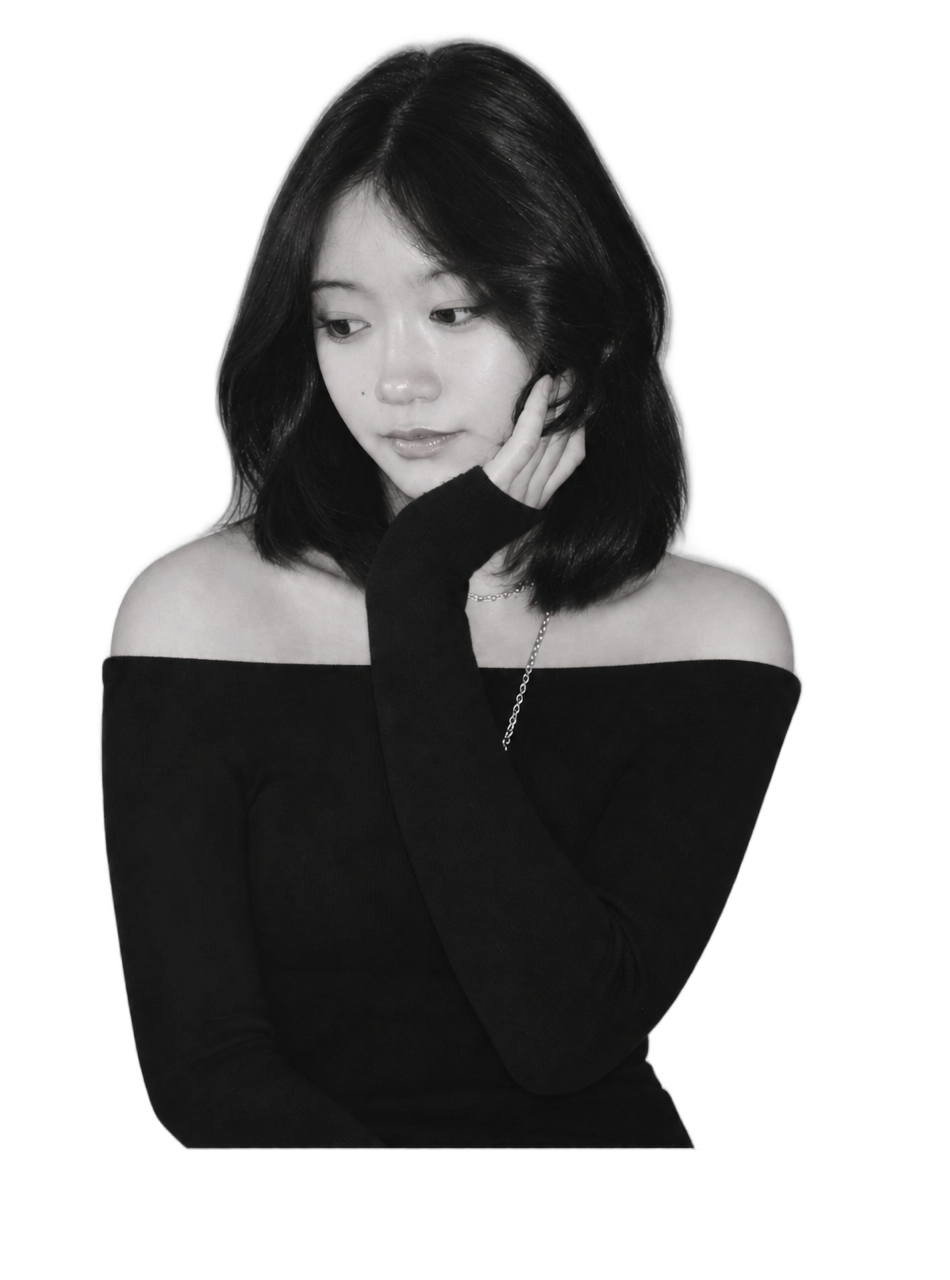
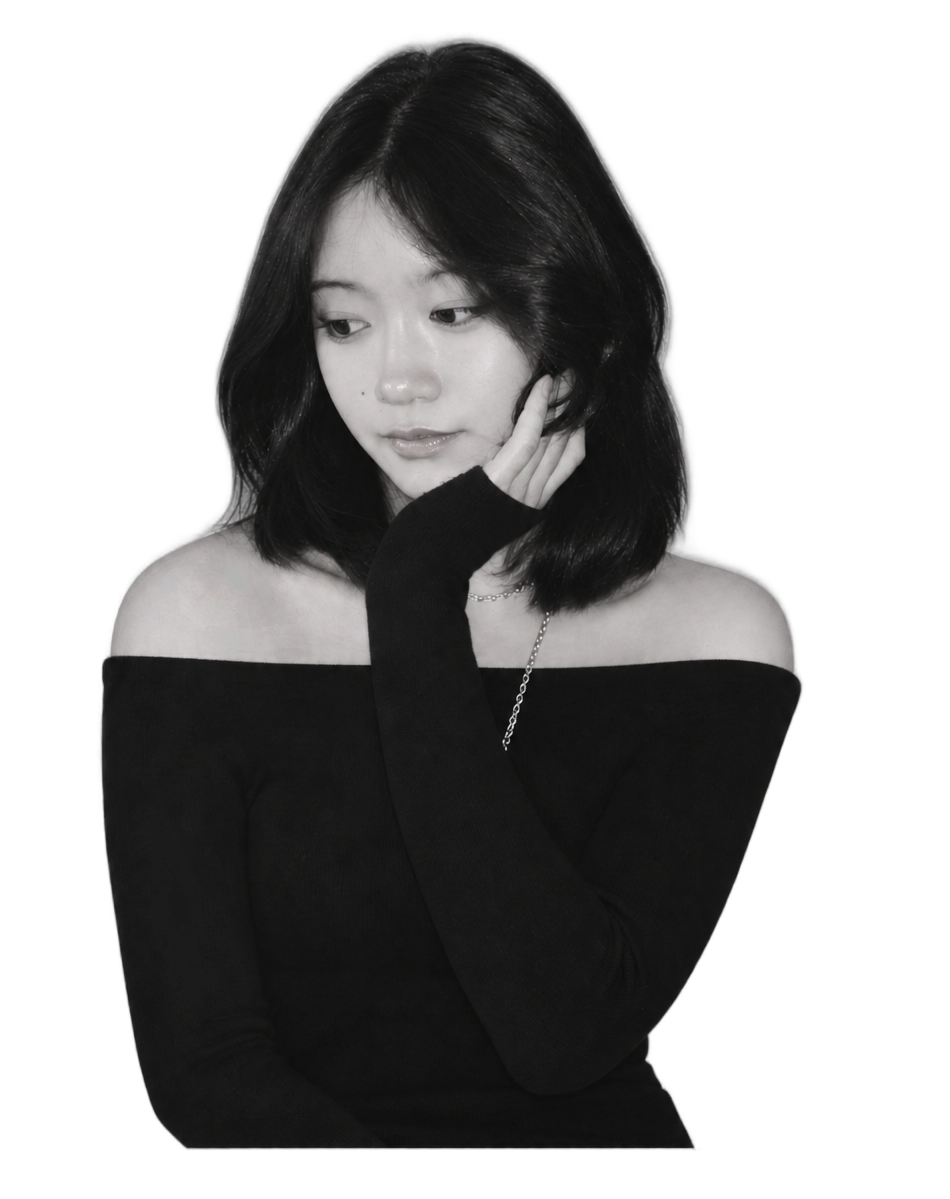
updated for mobile

diff --git a/css/style.css b/css/style.css
@@ -979,7 +979,10 @@ body.has-cursor .compare__range::-moz-range-thumb {
   }
 
   /* --- about --- */
-  .about__portrait { aspect-ratio: var(--media-ratio-mobile); }
+     .about__portrait {
+     aspect-ratio: var(--portrait-ratio);
+     max-width: 320px;
+   }
 
   /* --- case study: keep every image, just reshape it --- */
   .cs-media--2 > .media-box:first-child,
@@ -1001,6 +1004,8 @@ body.has-cursor .compare__range::-moz-range-thumb {
     opacity: 1;
     justify-content: flex-start;
   }
+  
+  #project-4 { display: none; }
 }
 
 /* ---------------------------------------------------------
